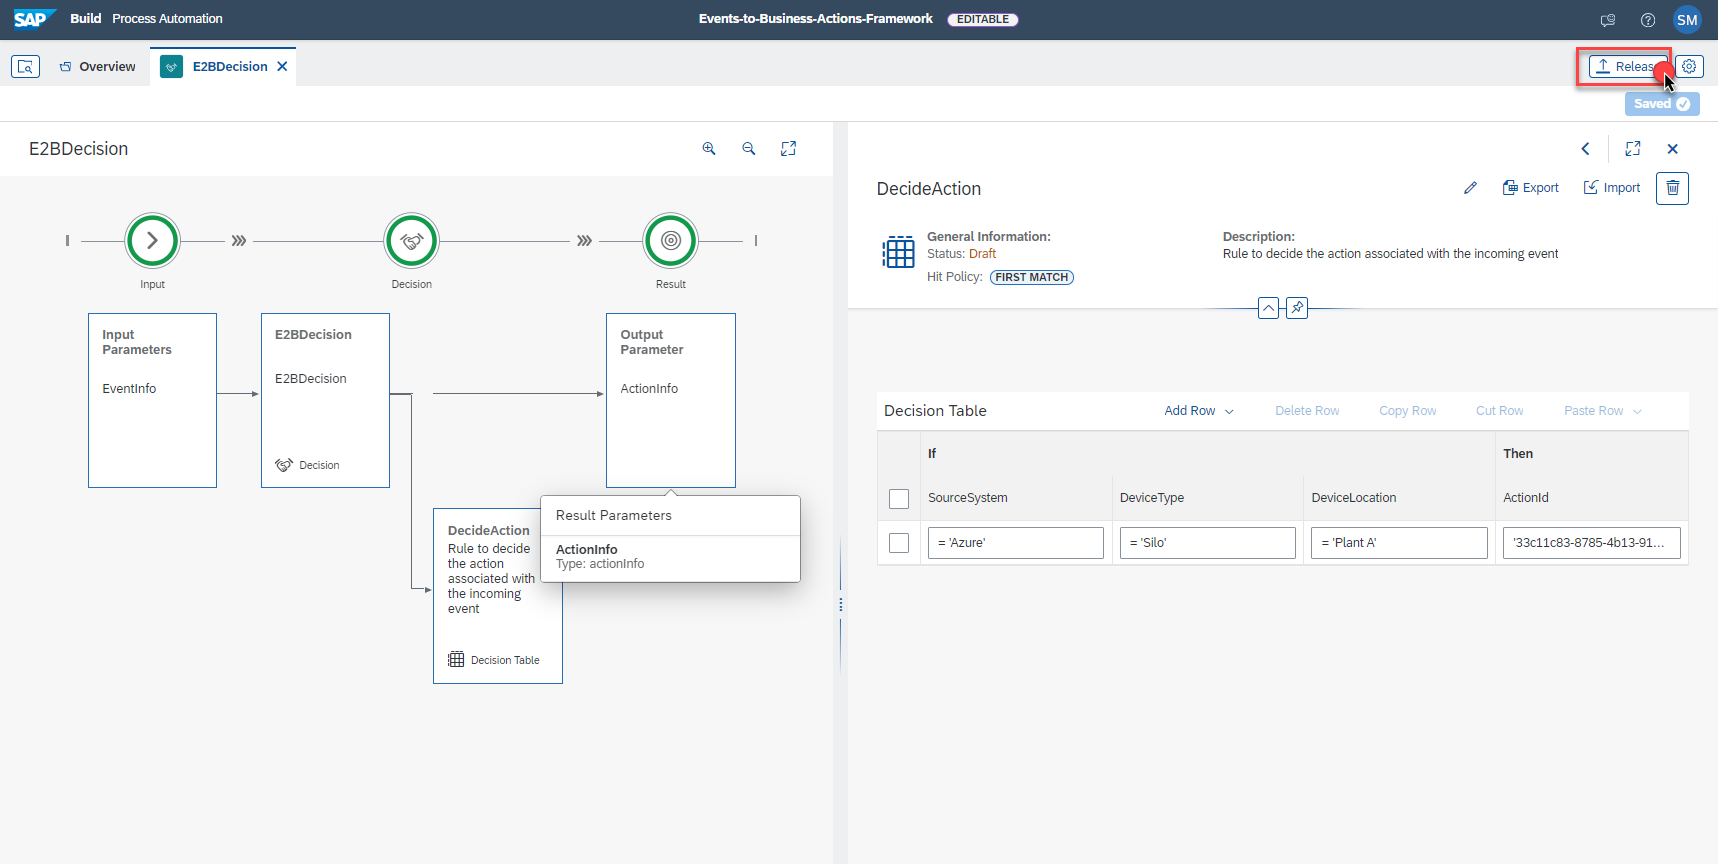
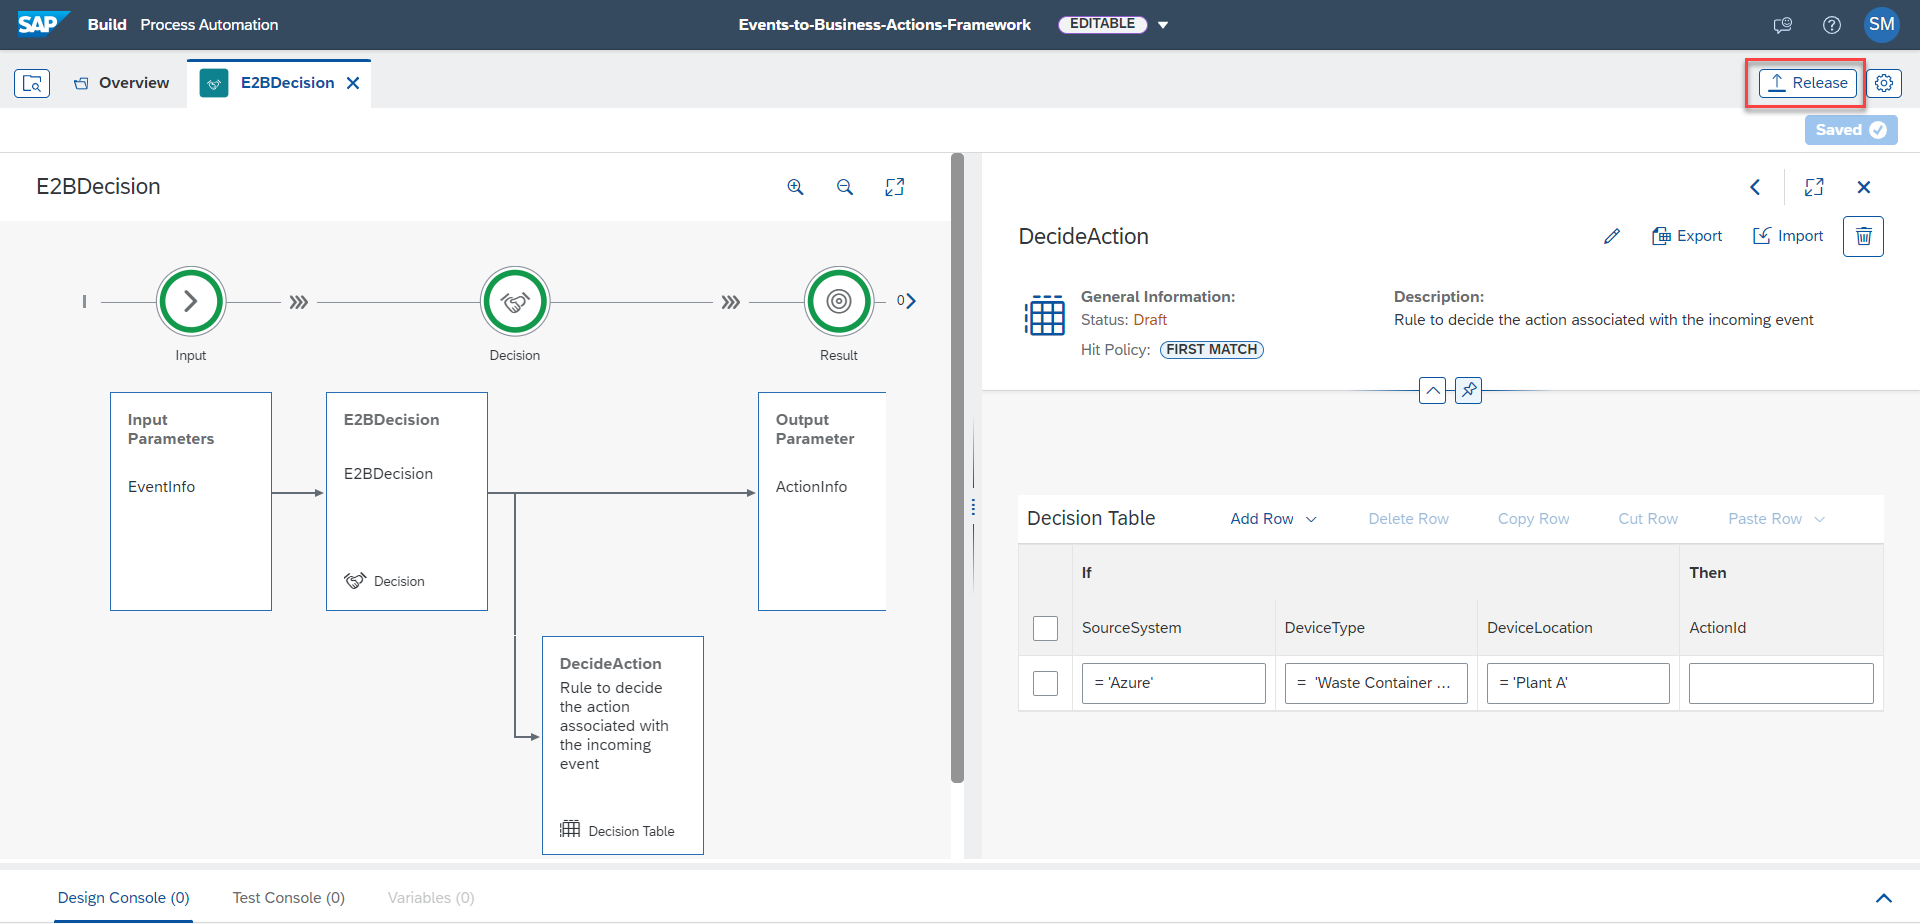
ex 3 updated

diff --git a/exercises/ex3/README.md b/exercises/ex3/README.md
@@ -1,12 +1,10 @@
 ## Exercise 3 - Configure Decision in SAP Build Process Automation: Part 01
 
-In this exercise, you will configure SAP Build Process Automation project where a Decision will be used to determine which business action should be executed for an event. Additionally, based on your scenario you will create a decision table.
+In this exercise, you will configure SAP Build Process Automation project where a Decision will be used to determine which business action should be executed for an event. You will also configure a decision table in the decision project.
 
 ### 1. Create SAP Build Process Automation Project
 
-1. In the SAP BTP Cockpit, Navigate to your subaccount -> **Sevices** -> **Instances and Subscriptions** , Open the SAP Build Process Automation Application.
-
-    ![plot](./images/subscriptions.png)
+1. Open the [SAP Build Process Automation](https://in263-ol7jr9xc.eu10.build.cloud.sap/) Application.
 
 2. In the SAP Build Process Automation Application, In the **Lobby** Tab , Click on **Create** button to create a new project.
 
@@ -18,7 +16,7 @@ In this exercise, you will configure SAP Build Process Automation project where 
 
     ![plot](./images/process.png)
 
-4. Fill the project name as **Events-to-Business-Actions-Framework-xxx** and Choose **Create**
+4. Fill the project name as **Events-to-Business-Actions-Framework-xxx** where XXX is the id from your email id and Choose **Create**
 
     ![plot](./images/createproject.png)
 
@@ -26,11 +24,14 @@ In this exercise, you will configure SAP Build Process Automation project where 
 
     ![plot](./images/AcceptDisclaimer.png)    
 
-5. The Project is now created , click on **Cancel** for the **Create Process** pop-up , as we will be creating **Decisions** and it's related **Data Types** in the following steps.
+5. The Project is now created , click on **Cancel** for the **Create Process** pop-up , as we will be creating **Decisions** and it's related **Data Types** in the next steps.
 
     ![plot](./images/ProjectCreated.png)
 
-6. Under the **Artifacts** Tab of your project, Click on **Create** and then choose **Decision** .
+
+### 2. Configure Decision in SAP Build Process Automation Project
+
+1. Under the **Artifacts** Tab of your project, Click on **Create** and then choose **Decision** .
 
     ![plot](./images/CreateDecision.png)
 
@@ -42,74 +43,88 @@ In this exercise, you will configure SAP Build Process Automation project where 
 
     ![plot](./images/DecisionCreated.png)   
 
-### 2. Configure SAP Build Process Automation Decisions
+2. The **Decision** configuration requires the **Input and Ouput parameters** as well as the business **Rule** that maps the incoming event to it's associated business action. To configure the Input/Output parameters we need to create the Custom Data Type with the fields that the incoming event payload contains.
 
-1. The **Decision** configuration requires the **Input and Ouput parameters** as well as the business **Rule** that maps the incoming event to it's associated business action. To configure the Input/Output parameters we need to create the Custom Data Type with the fields that the incoming event payload contains.
+    Under the**Artifacts** Tab, Click on **Create** and choose **Data Types**.
 
- Under the**Artifacts** Tab, Click on **Create** and choose **Data Types**.
+    ![plot](./images/CreateDataType.png)
 
- ![plot](./images/CreateDataType.png)
+3. We will be creating two data types namely **eventInfo** and **actionInfo** which will have the structure of the incoming event payload and the action Id respectively. To create the datatypes follow the steps shown below:
 
-2. We will be creating two data types namely **eventInfo** and **actionInfo** which will have the structure of the incoming event payload and the action Id respectively. To create the datatypes follow the steps shown below:
-
-    **a.** Create Data Type called **eventInfo**
+    a. Create Data Type called **eventInfo**
 
     ![plot](./images/eventInfoDT.png)
 
-    **b.**  Click on **New Field** and Enter the following three field details and click on **Save**
+    b. Click on **New Field** and Enter the following three field details and click on **Save**. 
 
+    | Name | Type |
+    |------|------|
+    | SourceSystem | String |
+    | DeviceType |  String |
+    | DeviceLocation | String |
+
+    _**Note:**_ Name is case-sensitive.
+       
     ![plot](./images/eventDTFields.png)
 
-    **c.** Under the**Artifacts** Tab, Click on **Create** and choose **Data Types**.
+    c. Under the **Artifacts** Tab, Click on **Create** and choose **Data Types**.
 
     ![plot](./images/actionInfoDT.png)
 
-    **d.** Create data type called **actionInfo** 
+    d. Create data type called **actionInfo** 
 
     ![plot](./images/actionDTname.png)
 
-    **e.** Click on **New Field** and Enter the following three field details and click on **Save**
+    **e.** Click on **New Field** and Enter the following field details and click on **Save**. 
+
+    | Name | Type |
+    |------|------|
+    | ActionId | String |
+
+    _**Note:**_ Name is case-sensitive.
 
     ![plot](./images/actionDTFields.png)
 
-3. As we have now created the required data types , let us go to the **E2BDecision** and configure the Input/Output parameters as shown below. Fill the Input Paramter Name as **EventInfo** and Choose the Type from the drop down as **eventInfo** created previously. Fill the Output Parameter Name as **ActionInfo** and choose the Type from the as **actionInfo**.
+4. As we have now created the required data types , let us go to the **E2BDecision** and configure the Input/Output parameters.    
+    - Fill the Input Paramter Name as **EventInfo** and Choose the Type from the drop down as **eventInfo**. 
+    - Fill the Output Parameter Name as **ActionInfo** and choose the Type from the drop down as **actionInfo**.
 
     ![plot](./images/addIpOp.png)
 
-4. Next let us configure the **Rules**. 
+5. Next let us configure the **Rules**. 
 
-    **a.** Click on **Add Rule**
+    a. Click on **Add Rule**
 
     ![plot](./images/addRule.png)
 
-    **b.** Fill in the **Rule Name** as **DecideAction** and click on **Next Step**
+    b. Fill in the **Rule Name** as **DecideAction** and click on **Next Step**
 
     ![plot](./images/CreateRule1.png)
 
-    **c.** To configure the **Conditions** follow the steps shown below. 
+    c. To configure the **Conditions** follow the steps shown below in sequence. 
 
     ![plot](./images/CreateRule2.png)
 
-    **d.** To configure the **Results** follow the steps shown below.
+    d. To configure the **Results** follow the steps shown below.
 
     ![plot](./images/CreateRule3.png)
 
-    **e.** Verify the **Review** Tab 
+    e. Verify the **Review** Tab 
 
     ![plot](./images/CreateRule4.png)
 
-    **f.** An empty **Decision Table** will be created.
+    f. An empty **Decision Table** will be created.
 
     ![plot](./images/CreateRule5.png)
 
-    **g.** Fill the fields with following values:
+    g. Fill the fields with following values:
     ```
         SourceSystem: ='Azure',
-        DeviceType: ='Silo',
+        DeviceType: ='Waste Container v2',
         DeviceLocation: ='Plant A'
-
-        ActionId to be filled later.
     ```
+    ActionId to be filled later.
+
     ![plot](./images/RuleField.png)
 
 ### 3. Release and Deploy SAP Build Process Automation Decision
@@ -145,7 +160,7 @@ In this exercise, you will configure SAP Build Process Automation project where 
 
     ![plot](./images/ViewDetails.png)
 
-    Copy the **Id** from the **Decision Details** , which will be used in the Next Step.
+    Copy the **Id** from the **Decision Details** and keep a note, which will be used in the Next Step.
 
     ![plot](./images/ViewDetails2.png)
  
